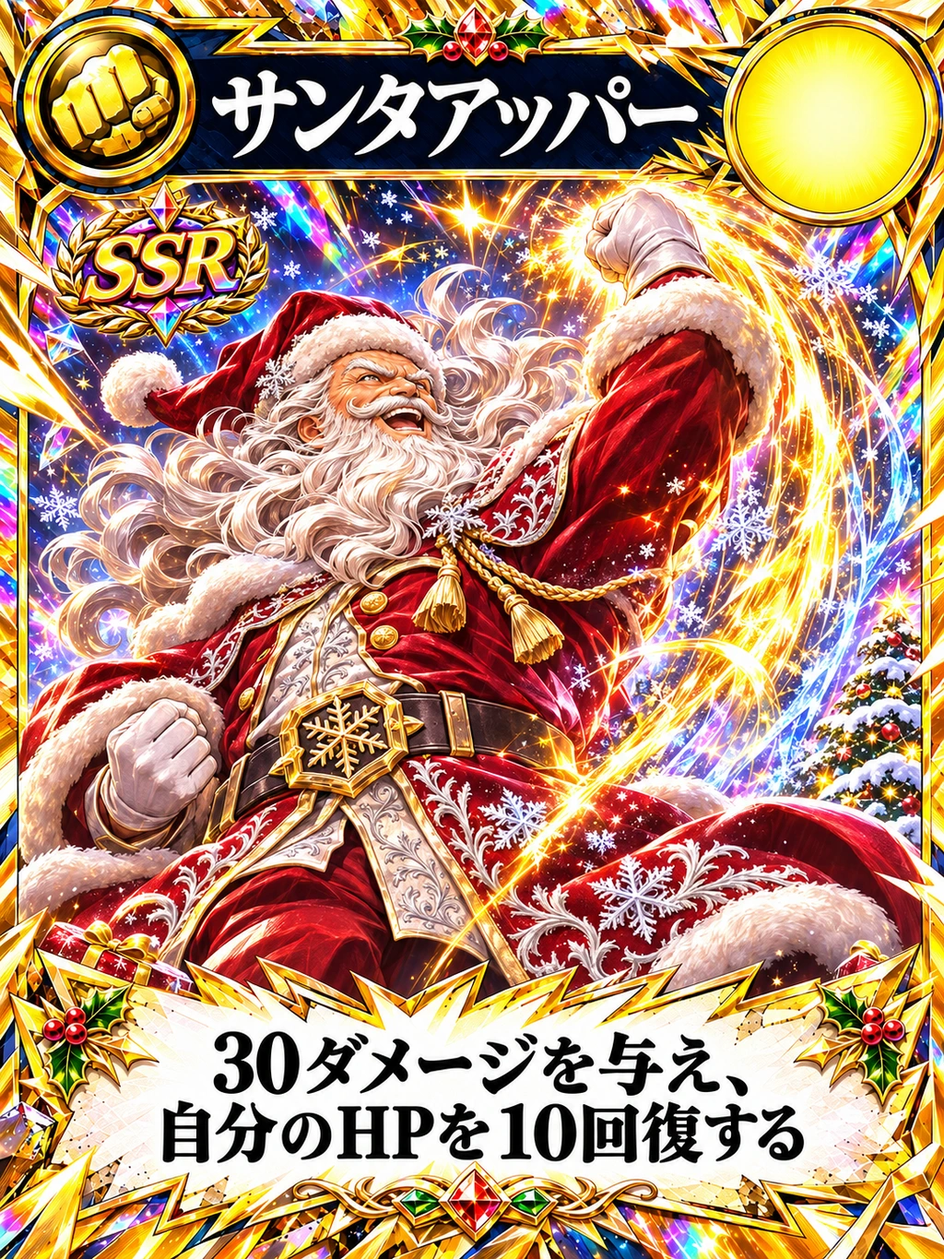
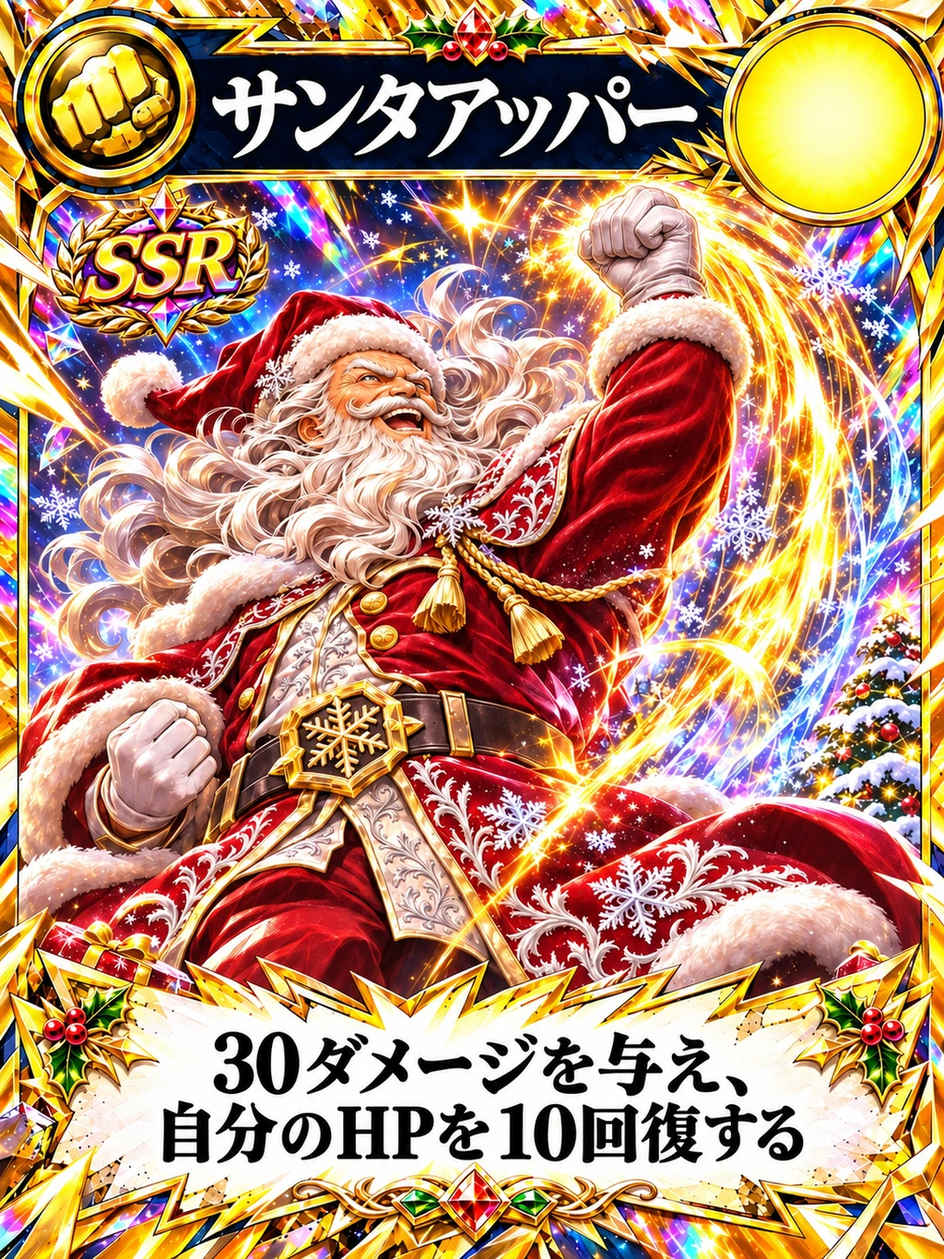
Refresh Christmas event design, booster art and uppercut anatomy

diff --git a/src/portal/ChristmasPage.tsx b/src/portal/ChristmasPage.tsx
@@ -1,4 +1,4 @@
-import { useEffect, useState } from 'react';
+import { useEffect, useState, type CSSProperties, type MouseEvent } from 'react';
 import { Card } from '../components/Card';
 import { BrandIdentity } from '../components/BrandIdentity';
 import { LoadingState } from '../components/LoadingState';
@@ -7,37 +7,120 @@ import { CHRISTMAS_FRAME_ID } from '../data/frames';
 import { callApi, isGuest, savedSession, type ChristmasEvent } from './api';
 import { packArtUrl } from './packArt';
 import './christmas.css';
+import './ChristmasFestival.css';
 
 export const christmasActive = (event?: ChristmasEvent | null) => !!event && (event.preview || event.published && Date.parse(event.startAt) <= Date.now() && Date.now() <= Date.parse(event.endAt));
 export const eventDate = (value: string) => value ? new Date(value).toLocaleString('ja-JP', { timeZone: 'Asia/Tokyo', month:'numeric',day:'numeric',hour:'2-digit',minute:'2-digit' }) : '未設定';
+
 export function ChristmasBanner({ event }: { event?: ChristmasEvent | null }) {
   if (!event?.published) return null;
   return <a className="christmas-banner panel" href="#/christmas"><span aria-hidden="true">❄</span><div><small>{christmasActive(event) ? '開催中' : Date.now() < Date.parse(event.startAt) ? 'まもなく開催' : 'イベント終了'}</small><strong>{event.title}</strong><p>サンタに挑戦。4つのミッションで白銀のフレームを手に入れよう。</p></div><b>イベントを見る →</b></a>;
 }
+
+function HollySprig({ className = '' }: { className?: string }) {
+  return <svg className={`christmas-holly ${className}`} viewBox="0 0 160 90" fill="none" aria-hidden="true" focusable="false">
+    <path d="M77 66C49 61 21 43 7 15L30 17 32 3 49 24 65 17 65 38 86 42Z" fill="#397351" />
+    <path d="M83 65C109 64 143 48 155 18L135 19 128 4 115 25 97 18 98 40 77 43Z" fill="#245d40" />
+    <path d="M25 25 80 68 139 27" stroke="#d7c190" strokeWidth="2" />
+    <circle cx="71" cy="64" r="12" fill="#b63243" /><circle cx="91" cy="64" r="12" fill="#cf4050" /><circle cx="81" cy="78" r="11" fill="#a92238" />
+    <circle cx="68" cy="60" r="3" fill="#ffe3d3" /><circle cx="88" cy="60" r="3" fill="#ffe3d3" />
+  </svg>;
+}
+
+function ChristmasAtmosphere() {
+  return <div className="christmas-atmosphere" aria-hidden="true">
+    <span className="christmas-bauble christmas-bauble--red" /><span className="christmas-bauble christmas-bauble--gold" />
+    {Array.from({ length: 20 }, (_, i) => <i key={i} style={{ left:`${3 + i * 29 % 94}%`, top:`${i * 37 % 98}%`, '--snow-delay':`${-i * .7}s`, '--snow-duration':`${12 + i % 5 * 2}s` } as CSSProperties}>{i % 4 === 0 ? '❄' : '•'}</i>)}
+  </div>;
+}
+
+function jumpTo(event: MouseEvent<HTMLAnchorElement>, id: string) {
+  event.preventDefault();
+  document.getElementById(id)?.scrollIntoView({ behavior: window.matchMedia('(prefers-reduced-motion: reduce)').matches ? 'auto' : 'smooth' });
+}
+
 export function ChristmasPage() {
   const session = savedSession(), guest = !session || isGuest(session);
   const preview = new URLSearchParams(location.hash.split('?')[1]).get('preview') === '1';
   const [event, setEvent] = useState<ChristmasEvent | null | undefined>();
   const [error, setError] = useState('');
-  useEffect(() => { callApi<{ event: ChristmasEvent | null }>(preview ? 'previewChristmas' : guest ? 'getPublicChristmas' : 'getChristmas', guest ? null : session).then((result) => setEvent(result.event)).catch((failure: Error) => setError(failure.message)); }, [session, guest, preview]);
+  useEffect(() => {
+    let cancelled = false;
+    callApi<{ event: ChristmasEvent | null }>(preview ? 'previewChristmas' : guest ? 'getPublicChristmas' : 'getChristmas', guest ? null : session)
+      .then((result) => { if (!cancelled) setEvent(result.event); }).catch((failure: Error) => { if (!cancelled) setError(failure.message); });
+    return () => { cancelled = true; };
+  }, [session, guest, preview]);
   const active = christmasActive(event), p = event?.progress;
-  return <main className="app-shell christmas-page"><header className="app-header"><BrandIdentity href="#/home" /><a className="text-link" href="#/home">ホームへ</a></header>{error ? <p className="portal-error" role="alert">{error}</p> : event === undefined ? <LoadingState text="イベントを読み込み中" /> : !event ? <section className="panel"><h1>イベントは準備中です</h1></section> : <>
-    {preview && <p className="christmas-preview">先生用プレビュー · 進捗や報酬は記録されません</p>}
-    <section className="christmas-hero panel">
-      <div><p className="eyebrow">SNOW & SILVER · CHRISTMAS</p><h1>{event.title}</h1><p>{eventDate(event.startAt)} 〜 {eventDate(event.endAt)}（日本時間）</p><h2>この冬、特別な1枚を。</h2><p>サンタと対戦し、学びのミッションにも挑戦。<br />4つの達成で、ずっと使える白銀のフレームをプレゼント！</p><a className="button button--primary" href="#christmas-missions" onClick={(e) => { e.preventDefault(); document.getElementById('christmas-missions')?.scrollIntoView({ behavior:'smooth' }); }}>ミッションを見る ↓</a></div>
-      <div className="christmas-showcase" aria-label="クリスマス限定アイテム">
-        <figure className="christmas-showcase__item"><div className="christmas-showcase__art"><Card card={getCard('G023')} width={210} /></div><figcaption><small>限定SSRカード</small><strong>サンタアッパー</strong></figcaption></figure>
-        <figure className="christmas-showcase__item"><div className="christmas-showcase__art"><img src={packArtUrl('christmas')} alt="クリスマス限定パック" /></div><figcaption><small>期間限定販売</small><strong>クリスマス限定パック</strong></figcaption></figure>
-        <figure className="christmas-showcase__item"><div className="christmas-showcase__art"><img className="christmas-showcase__frame" src={`${import.meta.env.BASE_URL}images/frames/snow-silver.webp`} alt="白銀のクリスマスフレーム単体" /></div><figcaption><small>全ミッション達成報酬</small><strong>白銀のフレーム</strong></figcaption></figure>
-      </div>
-    </section>
-    <section className="christmas-rewards"><article className="panel"><p className="eyebrow">ALL CLEAR REWARD</p><h2>白銀のクリスマスフレーム</h2><Card card={getCard('G006')} frameId={CHRISTMAS_FRAME_ID} width={210} /><p><b>フレームを装着したカードの効果が発動すると、HP+10。</b><br />最大HPを超えて回復できます。</p><p>「デッキ・図鑑」の「フレーム」から、デッキの1枚に装着。無料で付け替えでき、使ってもなくなりません。イベント終了後も使えます。</p></article><article className="panel"><p className="eyebrow">LIMITED SSR CARD</p><h2>サンタアッパー</h2><Card card={getCard('G023')} width={210} /><p><b>30ダメージ＋自分のHPを10回復。</b><br />グー・SSR。あいこでも発動！</p><p>筋トレで最大50ダメージ。SSRはデッキに1枚まで。開催期間中、クリスマス限定パックに登場します。</p><a className="button button--ghost" href="#/shop?tab=pack">限定パックを見る →</a></article></section>
-    <section className="panel christmas-missions" id="christmas-missions"><h2>クリスマス特別ミッション</h2>{guest && <p>ミッションとフレーム報酬は学校アカウントで参加できます。</p>}{!active && <p>{Date.now() < Date.parse(event.startAt) ? '開始までお待ちください。' : '開催期間が終了しました。獲得済みフレームは引き続き使えます。'}</p>}<div>{[
-      {title:'特別テストで満点',done:p?.knowledgeDone,count:p?.knowledgeDone?1:0,total:1,href:`#/tests?testId=${encodeURIComponent(event.knowledgeTestId)}`,label:'テストに挑戦'},
-      {title:'今年の振り返り・来年の抱負を提出',done:p?.reflectionDone,count:p?.reflectionDone?1:0,total:1,href:`#/tests?testId=${encodeURIComponent(event.reflectionTestId)}`,label:'振り返りを提出'},
-      {title:'最強サンタに勝つ',done:(p?.cpuWins??0)>=event.cpuWins,count:p?.cpuWins??0,total:event.cpuWins,href:preview?'#/battle?santa=1&preview=1':'#/battle?santa=1',label:'サンタに挑戦'},
-      {title:'オンライン対戦で勝つ',done:(p?.onlineWins??0)>=event.onlineWins,count:p?.onlineWins??0,total:event.onlineWins,href:'#/online',label:'友達と対戦'},
-    ].map((mission) => <article className={mission.done?'is-complete':''} key={mission.title}><strong>{mission.done?'✓ ':''}{mission.title}</strong><span>{mission.count} / {mission.total}</span><progress value={mission.count} max={mission.total} aria-label={mission.title} />{mission.done?<b>達成済み</b>:active&&!guest?<a className="button button--ghost" href={mission.href}>{mission.label} →</a>:null}</article>)}</div><p>通常の勝利を集計します。不戦勝・管理者テスト対戦は対象外です。必須の自由記述を入力して提出すると、振り返りミッション達成となります。</p>{p?.frameAwarded && <a className="button button--primary" href="#/collection">フレーム獲得済み · 装着する →</a>}</section>
-    <section className="christmas-santa panel"><img src={`${import.meta.env.BASE_URL}images/cpu/santa.webp`} alt="対戦相手のサンタクロース" /><div><p className="eyebrow">SANTA CHALLENGE</p><h2>サンタからの挑戦状</h2><p>ライフ {event.cpuLife}・筋トレ＋{event.cpuTraining}（カードごとの上限まで）。</p>{active && <a className="button button--primary" href={preview?'#/battle?santa=1&preview=1':'#/battle?santa=1'}>自分のデッキで挑戦 →</a>}</div></section>
-  </>}</main>;
+  const missions = event ? [
+    { title:'特別テストで満点', done:p?.knowledgeDone, count:p?.knowledgeDone?1:0, total:1, href:`#/tests?testId=${encodeURIComponent(event.knowledgeTestId)}`, label:'テストに挑戦' },
+    { title:'今年の振り返り・来年の抱負を提出', done:p?.reflectionDone, count:p?.reflectionDone?1:0, total:1, href:`#/tests?testId=${encodeURIComponent(event.reflectionTestId)}`, label:'振り返りを提出' },
+    { title:'最強サンタに勝つ', done:(p?.cpuWins??0)>=event.cpuWins, count:p?.cpuWins??0, total:event.cpuWins, href:preview?'#/battle?santa=1&preview=1':'#/battle?santa=1', label:'サンタに挑戦' },
+    { title:'オンライン対戦で勝つ', done:(p?.onlineWins??0)>=event.onlineWins, count:p?.onlineWins??0, total:event.onlineWins, href:'#/online', label:'友達と対戦' },
+  ] : [];
+  const completed = missions.filter((mission) => mission.done).length;
+
+  return <main className="app-shell christmas-page christmas-festival">
+    <ChristmasAtmosphere />
+    <header className="app-header"><BrandIdentity href="#/home" /><a className="text-link" href="#/home">ホームへ</a></header>
+    <div className="christmas-garland" aria-hidden="true">{Array.from({ length:18 }, (_,i) => <i key={i} style={{ '--light-order':i } as CSSProperties} />)}</div>
+    <div className="christmas-festival__content">
+      {error ? <p className="portal-error" role="alert">{error}</p> : event === undefined ? <LoadingState text="イベントを読み込み中" /> : !event ? <section className="panel christmas-empty"><h1>イベントは準備中です</h1><p>クリスマスの特別なひとときを、お楽しみに。</p></section> : <>
+        {preview && <p className="christmas-preview">先生用プレビュー · 進捗や報酬は記録されません</p>}
+        <section className="christmas-hero panel">
+          <HollySprig />
+          <div className="christmas-hero__copy">
+            <p className="eyebrow">G CARD · CHRISTMAS FESTIVAL</p>
+            <h1>{event.title.split(/(クリスマス|イベント)/).map((word, i) => <span className={word === 'クリスマス' || word === 'イベント' ? 'christmas-title__word' : undefined} key={i}>{word}</span>)}</h1>
+            <p className="christmas-dates"><span>{preview ? 'PREVIEW' : active ? '開催中' : Date.now() < Date.parse(event.startAt) ? 'まもなく開催' : '開催終了'}</span>{eventDate(event.startAt)} 〜 {eventDate(event.endAt)}<small>日本時間</small></p>
+            <h2>学んで、遊んで、冬のごほうびを。</h2>
+            <p>サンタと対戦し、学びのミッションにも挑戦。<br />4つの達成で、ずっと使える白銀のフレームをプレゼント！</p>
+            <a className="button button--primary" href="#christmas-missions" onClick={(e) => jumpTo(e,'christmas-missions')}>ミッションを見る ↓</a>
+          </div>
+          <div className="christmas-showcase" aria-label="クリスマス限定アイテム">
+            <figure className="christmas-showcase__item"><div className="christmas-showcase__art"><Card card={getCard('G023')} width={210} /></div><figcaption><small>限定SSRカード</small><strong>サンタアッパー</strong></figcaption></figure>
+            <figure className="christmas-showcase__item"><div className="christmas-showcase__art"><img src={packArtUrl('christmas')} alt="クリスマス限定パック" /></div><figcaption><small>期間限定販売</small><strong>クリスマス限定パック</strong></figcaption></figure>
+            <figure className="christmas-showcase__item"><div className="christmas-showcase__art"><img className="christmas-showcase__frame" src={`${import.meta.env.BASE_URL}images/frames/snow-silver.webp`} alt="白銀のクリスマスフレーム単体" /></div><figcaption><small>全ミッション達成報酬</small><strong>白銀のフレーム</strong></figcaption></figure>
+          </div>
+        </section>
+
+        <nav className="christmas-section-nav" aria-label="イベントの案内">
+          {[['christmas-missions','特別ミッション'],['christmas-rewards','カードとフレーム'],['christmas-pack','限定パック'],['christmas-santa','サンタに挑戦']].map(([id,label]) => <a key={id} href={`#${id}`} onClick={(e) => jumpTo(e,id)}>{label}<span aria-hidden="true">↓</span></a>)}
+        </nav>
+
+        <section className="panel christmas-missions" id="christmas-missions">
+          <div className="christmas-section-heading"><div><p className="eyebrow">FOUR CHRISTMAS MISSIONS</p><h2>クリスマス特別ミッション</h2><p>4つクリアして、白銀のフレームを手に入れよう。</p></div><span className="christmas-completed-count">達成 <b>{completed}</b> / 4</span></div>
+          {guest && <p>ミッションとフレーム報酬は学校アカウントで参加できます。</p>}
+          {!active && <p>{Date.now() < Date.parse(event.startAt) ? '開始までお待ちください。' : '開催期間が終了しました。獲得済みフレームは引き続き使えます。'}</p>}
+          <div>{missions.map((mission,index) => <article className={mission.done?'is-complete':''} key={mission.title}>
+            <span className="christmas-mission__number" aria-hidden="true">{mission.done ? '✓' : `0${index+1}`}</span>
+            <div className="christmas-mission__heading"><h3>{mission.title}</h3><span>{mission.count} / {mission.total}</span></div>
+            <progress value={mission.count} max={mission.total} aria-label={mission.title} />
+            <div className="christmas-mission__action">{mission.done ? <b>達成済み</b> : active && !guest ? <a className="button button--ghost" href={mission.href}>{mission.label} →</a> : null}</div>
+          </article>)}</div>
+          <p className="christmas-missions__note">通常の勝利を集計します。不戦勝・管理者テスト対戦は対象外です。必須の自由記述を入力して提出すると、振り返りミッション達成となります。</p>
+          {p?.frameAwarded && <a className="button button--primary" href="#/collection">フレーム獲得済み · 装着する →</a>}
+        </section>
+
+        <section className="christmas-gifts" id="christmas-rewards" aria-labelledby="christmas-gifts-title">
+          <div className="christmas-section-heading"><div><p className="eyebrow">SPECIAL WINTER GIFTS</p><h2 id="christmas-gifts-title">クリスマスだけの特別なアイテム</h2></div><HollySprig /></div>
+          <div className="christmas-rewards">
+            <article className="panel christmas-gift christmas-gift--silver"><p className="eyebrow">全ミッション達成報酬</p><h2>白銀のクリスマスフレーム</h2><Card card={getCard('G006')} frameId={CHRISTMAS_FRAME_ID} width={210} /><p><b>フレームを装着したカードの効果が発動すると、HP+10。</b><br />最大HPを超えて回復できます。</p><p>「デッキ・図鑑」の「フレーム」から、デッキの1枚に装着。無料で付け替えでき、使ってもなくなりません。イベント終了後も使えます。</p><span className="christmas-gift__tag">ずっと使える、冬の思い出をカードに。</span></article>
+            <article className="panel christmas-gift christmas-gift--santa"><p className="eyebrow">クリスマス限定SSR</p><h2>サンタアッパー</h2><Card card={getCard('G023')} width={210} /><p><b>30ダメージ＋自分のHPを10回復。</b><br />グー・SSR。あいこでも発動！</p><p>筋トレで最大50ダメージ。SSRはデッキに1枚まで。開催期間中、クリスマス限定パックに登場します。</p><a className="button button--ghost" href="#christmas-pack" onClick={(e) => jumpTo(e,'christmas-pack')}>限定パックを見る ↓</a></article>
+          </div>
+        </section>
+
+        <section className="panel christmas-pack-feature" id="christmas-pack">
+          <div className="christmas-pack-feature__art"><img src={packArtUrl('christmas')} alt="赤と緑、雪の結晶とリボンをあしらったクリスマス限定パック" /></div>
+          <div><p className="eyebrow">CHRISTMAS LIMITED PACK</p><h2>クリスマス限定パック</h2><p>サンタアッパーが登場する、冬だけの特別なパック。<br />赤と緑に輝く包みから、あなたの1枚を見つけよう。</p><dl className="christmas-pack-facts"><div><dt>1パック</dt><dd>{event.packPrice.toLocaleString()} G</dd></div><div><dt>カード枚数</dt><dd>{event.packSize} 枚入り</dd></div></dl>{active && !preview ? <a className="button button--primary" href="#/shop?tab=pack">ショップで限定パックを見る →</a> : <p className="christmas-pack-feature__availability">{preview ? '公開後、開催期間中にショップで購入できます。' : Date.now() < Date.parse(event.startAt) ? '開催期間になるとショップで購入できます。' : 'このパックの販売期間は終了しました。'}</p>}</div>
+          <HollySprig />
+        </section>
+
+        <section className="christmas-santa panel" id="christmas-santa">
+          <img src={`${import.meta.env.BASE_URL}images/cpu/santa.webp`} alt="対戦相手のサンタクロース" />
+          <div><p className="eyebrow">SANTA CHALLENGE</p><h2>サンタからの挑戦状</h2><p>ライフ {event.cpuLife}・筋トレ＋{event.cpuTraining}（カードごとの上限まで）。</p>{active && <a className="button button--primary" href={preview?'#/battle?santa=1&preview=1':'#/battle?santa=1'}>自分のデッキで挑戦 →</a>}</div>
+        </section>
+        <footer className="christmas-festival__footer"><HollySprig /><p>この冬の思い出を、あなたのカードに。</p><a href="#/home">ホームへ戻る →</a></footer>
+      </>}
+    </div>
+  </main>;
 }

diff --git a/src/portal/ChristmasFestival.css b/src/portal/ChristmasFestival.css
@@ -1,0 +1,157 @@
+.christmas-page.christmas-festival {
+  color: #fff8e9;
+  background: radial-gradient(ellipse at 100% 1%, #76243888, transparent 36%), radial-gradient(ellipse at 0 39%, #28694f66, transparent 45%), linear-gradient(165deg, #0c2d24, #12251f 50%, #301923);
+  isolation: isolate;
+}
+.christmas-festival::before { background: none; }
+.christmas-festival > .app-header { z-index: 1; border-color: #d8bd8f66; height: auto; min-height: 86px; padding-block: 12px; }
+.christmas-festival .app-header .text-link { color: #fff3d6; }
+.christmas-festival__content { position: relative; z-index: 1; width: min(1180px, calc(100% - 48px)); margin: auto; padding: 4px 0 50px; }
+.christmas-festival .panel { border: 1px solid #d4ba8a99; box-shadow: 0 18px 45px #040d0a55; }
+.christmas-festival .eyebrow { color: #f8d997; }
+.christmas-festival .button--primary { background: #b93243; color: #fffaf0; border-color: #efa9a5; box-shadow: 0 5px 0 #70172b; }
+.christmas-festival .button--primary:hover:not(:disabled) { background: #cf4050; }
+.christmas-festival .button--ghost { background: #fff7df0d; color: #fff7e6; border-color: #e4cda578; }
+.christmas-festival .button--ghost:hover { background: #fff7df1c; }
+.christmas-festival :is(a, button):focus-visible { outline: 3px solid #ffe3a2; outline-offset: 4px; }
+.christmas-festival :is(h1, h2, h3) { text-wrap: balance; }
+.christmas-holly { width: 110px; height: 64px; flex: none; pointer-events: none; }
+.christmas-garland { position: relative; z-index: 1; display: flex; justify-content: space-around; width: min(1230px, 100%); height: 39px; margin: -3px auto 0; padding: 0 15px; overflow: hidden; }
+.christmas-garland::before { content: ''; position: absolute; inset: 0 0 auto; height: 17px; border-top: 2px solid #648256; background: repeating-linear-gradient(140deg, transparent 0 13px, #2c6545 13px 20px, transparent 20px 31px), repeating-linear-gradient(40deg, transparent 0 15px, #427450 15px 22px, transparent 22px 35px); }
+.christmas-garland i { position: relative; margin-top: 14px; width: 7px; height: 12px; border-radius: 40% 40% 55% 55%; background: #ffe2a2; color: #ffe2a2; box-shadow: 0 0 10px 2px currentColor; animation: christmas-light 4s ease-in-out infinite; animation-delay: calc(var(--light-order) * -.22s); }
+.christmas-garland i:nth-child(3n) { background: #e85f66; color: #e85f66; }
+.christmas-garland i:nth-child(3n + 1) { background: #d5eee1; color: #d5eee1; }
+.christmas-garland i::before { content: ''; position: absolute; width: 2px; height: 7px; bottom: 100%; left: calc(50% - 1px); background: #a89f6c; }
+.christmas-atmosphere { position: absolute; z-index: 0; inset: 0; overflow: hidden; pointer-events: none; }
+.christmas-atmosphere > i { position: absolute; color: #f5fbf4; opacity: .28; font-size: 14px; font-style: normal; animation: christmas-snow var(--snow-duration) var(--snow-delay) linear infinite; }
+.christmas-atmosphere > i:nth-child(4n) { font-size: 22px; opacity: .18; }
+.christmas-bauble { position: absolute; top: 100px; width: 76px; aspect-ratio: 1; border-radius: 50%; border: 1px solid #e5c58c8c; box-shadow: inset -14px -10px 20px #0005, 0 10px 30px #0003; opacity: .8; }
+.christmas-bauble::before { content: ''; position: absolute; left: 43%; bottom: 98%; width: 14%; height: 10px; border-radius: 4px 4px 0 0; background: #c4a976; }
+.christmas-bauble::after { content: ''; position: absolute; left: 50%; bottom: calc(100% + 9px); width: 1px; height: 120px; background: #c3b47f; }
+.christmas-bauble--red { left: -30px; background: radial-gradient(circle at 30% 25%, #e96f75, #9f2038 60%); }
+.christmas-bauble--gold { right: -23px; top: 150px; width: 63px; background: radial-gradient(circle at 30% 25%, #fff0bb, #bd9456 60%); }
+.christmas-festival .christmas-preview { margin: 0 0 18px; border: 1px dashed #ead7ae; border-radius: 12px; background: #423721; color: #fff5dd; font-size: 13px; text-wrap: balance; }
+.christmas-festival .christmas-hero { position: relative; margin: 0; padding: clamp(24px, 3vw, 38px); gap: 30px; grid-template-columns: minmax(0, .9fr) minmax(0, 1.2fr); border-top: 4px solid #e9ecda; border-radius: 28px; background: radial-gradient(ellipse at 70% 0, #e7c37317, transparent 52%), linear-gradient(115deg, #173d2e, #163a2c 32%, #48252a 73%, #622a35); }
+.christmas-hero > .christmas-holly { position: absolute; right: 12px; top: -3px; opacity: .9; transform: rotate(-12deg); }
+.christmas-festival .christmas-hero h1 { color: #fff7e3; font-size: clamp(30px, 3.7vw, 46px); line-height: 1.4; margin: 24px 0; text-shadow: 0 2px 14px #0003; }
+.christmas-title__word { display: inline-block; white-space: nowrap; }
+.christmas-festival .christmas-hero h2 { font-size: clamp(18px, 2vw, 22px); color: #f5dcad; margin-top: 26px; }
+.christmas-hero__copy { position: relative; z-index: 1; }
+.christmas-festival .christmas-dates { display: flex; flex-wrap: wrap; align-items: center; gap: 6px 9px; color: #e3e9d7; font-size: 13px; }
+.christmas-dates > span { border: 1px solid #e3cca3; border-radius: 999px; padding: 2px 10px; color: #fff6dd; background: #ffffff0a; font-size: 11px; font-weight: 800; }
+.christmas-dates > small { opacity: .8; font-size: 10px; }
+.christmas-festival .christmas-hero__copy > .button { margin-top: 10px; }
+.christmas-festival .christmas-showcase { position: relative; z-index: 1; gap: 14px; padding-top: 32px; }
+.christmas-festival .christmas-showcase__art { height: clamp(165px, 20vw, 252px); border-bottom: 1px solid #e5c1865c; padding-bottom: 12px; background: radial-gradient(ellipse at 50% 94%, #f4cb861e, transparent 60%); }
+.christmas-festival .christmas-showcase__art > img { filter: drop-shadow(0 8px 12px #0006); }
+.christmas-festival .christmas-showcase figcaption small { color: #f5dba9; font-size: 10px; }
+.christmas-festival .christmas-showcase figcaption strong { color: #fff4df; font-size: 13px; min-height: 3em; }
+.christmas-section-nav { display: grid; grid-template-columns: repeat(4, minmax(0, 1fr)); gap: 10px; margin: 20px 0 30px; }
+.christmas-section-nav a { display: flex; justify-content: space-between; gap: 8px; align-items: center; color: #f8ebd0; border: 1px solid #bda77b73; background: #f0d7a108; border-radius: 12px; padding: 12px 16px; text-decoration: none; font-size: 13px; font-weight: 800; }
+.christmas-section-nav a:hover { background: #f0d7a119; }
+.christmas-section-nav span { color: #f0cd87; }
+.christmas-festival :is(#christmas-missions, #christmas-rewards, #christmas-pack, #christmas-santa) { scroll-margin-top: 20px; }
+.christmas-festival .christmas-section-heading { display: flex; align-items: center; justify-content: space-between; gap: 20px; margin-bottom: 22px; }
+.christmas-section-heading h2 { margin: 0; font-size: clamp(22px, 2.3vw, 30px); line-height: 1.5; }
+.christmas-section-heading p:not(.eyebrow) { margin: 9px 0 0; color: #dce8d8; }
+.christmas-festival .christmas-missions { position: relative; background: linear-gradient(130deg, #173d30, #18352a); padding: clamp(20px, 3vw, 32px); margin: 0 0 36px; border-top: 3px solid #cedecc; }
+.christmas-completed-count { flex: none; padding: 9px 16px; border: 1px solid #d7c19088; border-radius: 14px; color: #f8e2b7; font-size: 14px; background: #0d291e; white-space: nowrap; }
+.christmas-completed-count b { font-size: 23px; margin-inline: 4px; }
+.christmas-festival .christmas-missions article { position: relative; display: flex; flex-direction: column; gap: 18px; padding: 22px; border: 1px solid #a7bd9b6e; background: #0d2c22; box-shadow: inset 0 1px #ffffff0b; }
+.christmas-mission__number { position: absolute; top: 21px; left: 20px; display: grid; place-items: center; width: 30px; height: 30px; border-radius: 50%; color: #ffe9ba; background: #77313a; border: 1px solid #d8b47c; font-size: 12px; font-weight: 900; }
+.christmas-mission__heading { padding-left: 44px; display: flex; align-items: flex-start; justify-content: space-between; gap: 12px; min-height: 2.7em; }
+.christmas-mission__heading h3 { margin: 2px 0 0; font-size: 16px; line-height: 1.6; }
+.christmas-mission__heading > span { flex: none; color: #e6d2a6; font-size: 13px; margin-top: 5px; white-space: nowrap; }
+.christmas-festival .christmas-missions article progress { width: 100%; height: 9px; accent-color: #e6c98a; }
+.christmas-mission__action { min-height: 49px; display: flex; align-items: center; }
+.christmas-mission__action > b { color: #d1ebca; background: #e1ffda12; border: 1px solid #a9cca55c; border-radius: 999px; padding: 7px 13px; }
+.christmas-festival .christmas-missions article.is-complete { border-color: #a5d4a6; background: #254f37; }
+.christmas-festival .is-complete .christmas-mission__number { background: #325b3e; border-color: #d1dfb1; color: #f8ffe8; }
+.christmas-festival .christmas-missions__note { font-size: 12px; line-height: 1.9; color: #cddccc; margin: 20px 0 0; }
+.christmas-gifts { margin: 0 0 30px; }
+.christmas-festival .christmas-gift { position: relative; display: flex; flex-direction: column; padding: clamp(22px, 3vw, 32px); }
+.christmas-festival .christmas-gift h2 { margin: 0 0 6px; font-size: clamp(21px, 2.3vw, 27px); color: #fff1d7; }
+.christmas-festival .christmas-gift--silver { background: radial-gradient(ellipse at 50% 38%, #b3e5df1c, transparent 55%), linear-gradient(150deg, #213e39, #162e2d); border-top: 4px solid #dfeeee; border-color: #bcd4ce; }
+.christmas-festival .christmas-gift--silver h2 { color: #e1f4ee; }
+.christmas-festival .christmas-gift--santa { background: radial-gradient(ellipse at 50% 38%, #e5ae7130, transparent 55%), linear-gradient(150deg, #5a2732, #3c202b); border-top: 4px solid #dfb27b; }
+.christmas-festival .christmas-gift > .card { margin: 22px auto; }
+.christmas-gift > p { margin: 12px 0; }
+.christmas-gift > .button { align-self: flex-start; margin-top: auto; }
+.christmas-gift__tag { color: #bce0d0; margin-top: auto; border-top: 1px solid #bbd5c944; padding-top: 16px; font-size: 13px; }
+.christmas-pack-feature { position: relative; display: grid; grid-template-columns: minmax(150px, .65fr) minmax(0, 1.35fr); align-items: center; gap: 40px; margin: 30px 0; padding: clamp(24px, 4vw, 42px); overflow: hidden; }
+.christmas-festival .christmas-pack-feature { background: radial-gradient(ellipse at 10% 50%, #c76a4a2a, transparent 55%), linear-gradient(120deg, #54252e, #2c3525); }
+.christmas-pack-feature > .christmas-holly { position: absolute; right: 16px; bottom: -9px; opacity: .55; width: 150px; height: 90px; }
+.christmas-pack-feature__art { display: flex; justify-content: center; align-items: center; }
+.christmas-pack-feature__art img { display: block; width: min(100%, 180px); filter: drop-shadow(0 16px 22px #0005); }
+.christmas-pack-feature h2 { font-size: clamp(24px, 3vw, 34px); margin: 12px 0; }
+.christmas-pack-facts { display: flex; gap: 30px; margin: 22px 0; }
+.christmas-pack-facts > div { border-left: 2px solid #dbb889; padding-left: 14px; }
+.christmas-pack-facts dt { color: #d9d9bb; font-size: 12px; }
+.christmas-pack-facts dd { margin: 4px 0 0; font-size: 22px; font-weight: 900; color: #fff3cf; }
+.christmas-pack-feature__availability { color: #ebd1a6; font-size: 13px; }
+.christmas-festival .christmas-santa { background: radial-gradient(ellipse at 15% 50%, #d7ad6729, transparent 52%), linear-gradient(125deg, #273f2b, #49252d); margin-top: 30px; border-top: 3px solid #d6b47b; padding: 28px 42px; gap: 50px; }
+.christmas-festival .christmas-santa > img { max-height: 340px; filter: drop-shadow(0 14px 15px #0003); }
+.christmas-festival .christmas-santa h2 { font-size: clamp(24px, 3vw, 35px); margin: 14px 0; }
+.christmas-festival__footer { display: flex; flex-direction: column; align-items: center; text-align: center; margin: 35px 0 0; gap: 4px; }
+.christmas-festival__footer > .christmas-holly { width: 85px; height: 48px; }
+.christmas-festival__footer p { margin: 2px 0 12px; color: #e6d4ac; font-size: 14px; }
+.christmas-festival__footer a { font-size: 13px; color: #e2e2ce; padding: 7px 12px; }
+.christmas-empty { margin-top: 20px; padding: 40px; background: #173b2d !important; }
+@keyframes christmas-light { 0%, 100% { opacity: .65; } 50% { opacity: 1; } }
+@keyframes christmas-snow { 0% { transform: translate3d(0, -30px, 0); opacity: 0; } 18%, 75% { opacity: .25; } 100% { transform: translate3d(26px, 100px, 0); opacity: 0; } }
+@media (max-width: 1000px) {
+  .christmas-festival .christmas-hero { grid-template-columns: 1fr; gap: 20px; }
+  .christmas-festival .christmas-showcase { padding-top: 10px; max-width: 680px; }
+  .christmas-festival .christmas-showcase__art { height: clamp(160px, 30vw, 250px); }
+  .christmas-festival .christmas-hero h1 { max-width: 700px; font-size: 38px; }
+  .christmas-section-nav { gap: 8px; }
+  .christmas-section-nav a { font-size: 12px; padding-inline: 11px; }
+}
+@media (max-width: 600px) {
+  .christmas-festival__content { width: calc(100% - 24px); }
+  .christmas-garland { height: 32px; padding: 0 6px; }
+  .christmas-garland i { width: 5px; height: 9px; }
+  .christmas-festival .christmas-hero { padding: 24px 18px 20px; border-radius: 22px; }
+  .christmas-hero > .christmas-holly { width: 80px; top: -7px; right: 6px; }
+  .christmas-festival .christmas-hero h1 { font-size: 28px; margin: 22px 0; }
+  .christmas-festival .christmas-hero h2 { font-size: 18px; margin-top: 22px; }
+  .christmas-festival .christmas-hero__copy > p:not(.eyebrow):not(.christmas-dates) { font-size: 14px; }
+  .christmas-festival .christmas-dates { font-size: 11px; }
+  .christmas-festival .christmas-showcase { gap: 10px; padding-top: 12px; }
+  .christmas-festival .christmas-showcase__art { height: clamp(92px, 30vw, 160px); padding-bottom: 8px; }
+  .christmas-festival .christmas-showcase figcaption small { font-size: 9px; }
+  .christmas-festival .christmas-showcase figcaption strong { font-size: 11px; }
+  .christmas-section-nav { grid-template-columns: repeat(2, minmax(0, 1fr)); margin: 14px 0 22px; }
+  .christmas-section-heading { align-items: flex-start; gap: 12px; }
+  .christmas-section-heading h2 { font-size: 21px; }
+  .christmas-section-heading p:not(.eyebrow) { font-size: 13px; }
+  .christmas-section-heading .eyebrow { font-size: 10px; letter-spacing: .1em; }
+  .christmas-section-heading > .christmas-holly { width: 60px; height: 40px; }
+  .christmas-completed-count { padding: 6px 9px; font-size: 11px; }
+  .christmas-completed-count b { font-size: 18px; margin-inline: 2px; }
+  .christmas-festival .christmas-missions { padding: 22px 16px; }
+  .christmas-festival .christmas-missions > div:not(.christmas-section-heading) { grid-template-columns: 1fr; }
+  .christmas-festival .christmas-missions article { padding: 18px 15px; gap: 15px; }
+  .christmas-mission__number { left: 15px; top: 20px; width: 26px; height: 26px; font-size: 11px; }
+  .christmas-mission__heading { padding-left: 35px; gap: 8px; }
+  .christmas-mission__heading h3 { font-size: 14px; }
+  .christmas-mission__heading > span { font-size: 12px; }
+  .christmas-festival .christmas-gift { padding: 22px 18px; }
+  .christmas-festival .christmas-gift h2 { font-size: 22px; }
+  .christmas-festival .christmas-gift > p { font-size: 14px; }
+  .christmas-festival .christmas-pack-feature { grid-template-columns: 1fr; gap: 20px; padding: 28px 22px; }
+  .christmas-pack-feature__art img { width: 135px; }
+  .christmas-pack-feature h2 { font-size: 26px; }
+  .christmas-pack-feature p { font-size: 14px; }
+  .christmas-pack-facts { gap: 25px; }
+  .christmas-festival .christmas-santa { align-items: center; gap: 18px; padding: 24px 18px; }
+  .christmas-festival .christmas-santa > img { width: 32%; max-height: 240px; }
+  .christmas-festival .christmas-santa > div { min-width: 0; }
+  .christmas-festival .christmas-santa h2 { font-size: 22px; }
+  .christmas-festival .christmas-santa p:not(.eyebrow) { font-size: 12px; }
+  .christmas-festival .christmas-santa .button { font-size: 12px; padding-inline: 12px; }
+}
+@media (prefers-reduced-motion: reduce) {
+  .christmas-atmosphere > i { display: none; }
+  .christmas-garland i { animation: none; }
+}

diff --git a/docs/CHRISTMAS_FESTIVAL_DESIGN.md b/docs/CHRISTMAS_FESTIVAL_DESIGN.md
@@ -1,0 +1,33 @@
+# クリスマスページと画像の改訂（2026-11-28）
+
+- 内蔵image_genで、サンタアッパーの突き上げる拳・指・手首を局所修正。顔・衣装・カード名・効果・カードIDは保持。
+- 赤・深緑・白・シルバーのクリスマス限定パックを新規生成。文字を入れず、雪の結晶、ヒイラギ、リボンを採用。透過背景を保持してWebPに変換した。
+- イベントページ全体を赤・緑・白のテーマに変更。ガーランド、穏やかな照明、オーナメント、雪を追加。動きを減らす設定では雪と照明のアニメーションを停止する。
+- 冒頭のカード・パック・フレーム単体の3点紹介を維持し、ページ内ナビゲーション、ミッション、報酬、価格と枚数を示す限定パック紹介、サンタ対戦の順に構成。
+- 進捗判定、カード性能、購入処理、イベントの公開状態・開催設定は変更しない。
+
+## 保存先
+
+- 修正カード原本：`design-source/christmas/santa-upper-hand-fixed.png`
+- アプリ用カード：`public/images/cards/G023-front.webp`（1024×1365）
+- 限定パック原本：`design-source/christmas/christmas-pack.png`
+- アプリ用パック：`public/images/packs/christmas.webp`（768×1152、アルファ付き）
+- 過去の原本は履歴として保持。
+
+## 確認
+
+`npm run build` が完了。APIを代替データにしたローカルChromeで1366px・768px・390px幅を確認し、3画像の読み込み、横方向のはみ出し、ページ内リンク、動きを減らす設定で雪と照明が停止することを確認した。カード・パックの性能や開催設定に変更はない。
+
+## 拳の修正プロンプト
+
+編集対象：修正前の `public/images/cards/G023-front.webp`。
+
+```text
+Use case: precise-object-edit / anatomy correction. Edit the provided G-card サンタアッパー image. Make a localized correction to the RAISED UPPERCUT HAND and its wrist/forearm ONLY, preserving the rest of the finished card as closely as possible. The current raised fist appears twisted and anatomically unnatural. Redraw it as a convincing anatomically correct closed white-gloved human fist: four naturally curled fingers with four coherent knuckles, exactly one thumb folded securely OUTSIDE the curled fingers on the anatomically correct side, no extra digits, no fused fingers, no backward hand, no thumb tucked inside the fist. Align the fist and wrist naturally with the forearm, no broken or excessively bent wrist; make the elbow-to-forearm-to-wrist connection physically plausible in a powerful upward uppercut. The upward strike must remain obvious, dynamic and full power, but natural anatomy takes priority. Preserve Santa's exact existing elderly face, white flowing beard, smile, scarlet silver-embroidered coat and hat, other hand, gold/snow energy arc and Christmas background. Keep the gold rock-card border, top-left gold fist emblem, top-right gold circle, SSR badge, all positions, premium holographic finish, card proportions and all card typography unchanged. Exact title remains サンタアッパー. Bottom Japanese text remains two lines: 30ダメージを与え、 / 自分のHPを10回復する (slash is a line break, do not print slash). Portrait 3:4 edge-to-edge card, no outside mockup background.
+```
+
+## 新規パックの生成プロンプト
+
+```text
+Use case: stylized-concept / product-mockup. Create ONE premium Christmas-exclusive collectible card booster PACK asset for the Japanese fantasy game Gカード. Portrait 2:3 composition, front-facing unopened metallic foil pouch, straight-on with believable foil folds, crimped sealed top and bottom and neat serrated edges, entire pack visible with a small transparent margin. Truly transparent alpha background, no floor, no cast shadow outside the pack, no hands or people, not a gift box and not a game card. Main Christmas palette: rich scarlet RED and deep evergreen GREEN, frosty snow WHITE and SILVER, with elegant thin gold jewelry-like accents. Bold readable silhouette at thumbnail size. Red metallic foil body, deep emerald side panels, graceful white snowflake patterns and frosted silver filigree, evergreen holly leaves and red berries. A luxurious central Christmas star gem within a silver snowflake/wreath crest, a rich red ribbon and ornate small bow as printed/embossed packaging decoration. Magical glitter, icy light and premium prismatic foil shimmer, festive, exciting and coherent with an ornate high-quality anime trading-card game. Keep a clear central emblem and balanced craftsmanship, festive without clutter. Absolutely NO TEXT: no Japanese, no letters, no numbers, no rarity labels, no logos, no watermarks. Avoid purple hourglasses, clocks or crescent moon motifs. Output a polished isolated pack illustration ready to place on the game event page and shop.
+```

diff --git a/docs/CHRISTMAS_OPERATIONS.md b/docs/CHRISTMAS_OPERATIONS.md
@@ -41,7 +41,7 @@
 
 ## 画像
 
-白銀フレームは了承済み見本から `public/images/frames/snow-silver.webp` に採用。サンタアッパーはCPUサンタの顔・衣装を参照して再生成した `G023-front.webp` を使用。限定パックの絵は既存の期間限定パックを利用。新しく生成したCPUサンタは内蔵image_genを使い、原本 `design-source/christmas/cpu-santa.png`、表示用 `public/images/cpu/santa.webp` に保存した。
+白銀フレームは了承済み見本から `public/images/frames/snow-silver.webp` に採用。サンタアッパーはCPUサンタの顔・衣装を参照して再生成し、拳の形を修正した `G023-front.webp` を使用。限定パックは赤・緑・白のクリスマス専用画像を新規生成した。最新の画像・ページデザイン・生成プロンプトは [デザイン改訂記録](CHRISTMAS_FESTIVAL_DESIGN.md) を参照。CPUサンタの原本は `design-source/christmas/cpu-santa.png`、表示用は `public/images/cpu/santa.webp` に保存した。
 
 CPU画像の生成プロンプト：
 

diff --git a/docs/CHRISTMAS_EVENT.md b/docs/CHRISTMAS_EVENT.md
@@ -8,7 +8,7 @@
 - 筋トレ上限＋20。筋トレ最大時は50ダメージ。SSRはデッキに1枚までで、あいこでも発動する。
 - カードID：G023。カードマスターに登録し、開催期間中の限定パックだけに排出する。通常40枚のパックには混ぜない。
 - 採用画像は、サンタCPUと同じ顔・衣装のサンタクロースが全力でアッパーするカード。
-- [カード画像](../public/images/cards/G023-front.webp) / [生成原本](../design-source/christmas/santa-upper.png)
+- [カード画像](../public/images/cards/G023-front.webp) / [拳を修正した原本](../design-source/christmas/santa-upper-hand-fixed.png) / [最新のデザイン・生成記録](CHRISTMAS_FESTIVAL_DESIGN.md)
 
 ## 全ミッション達成報酬：クリスマスフレーム
 
